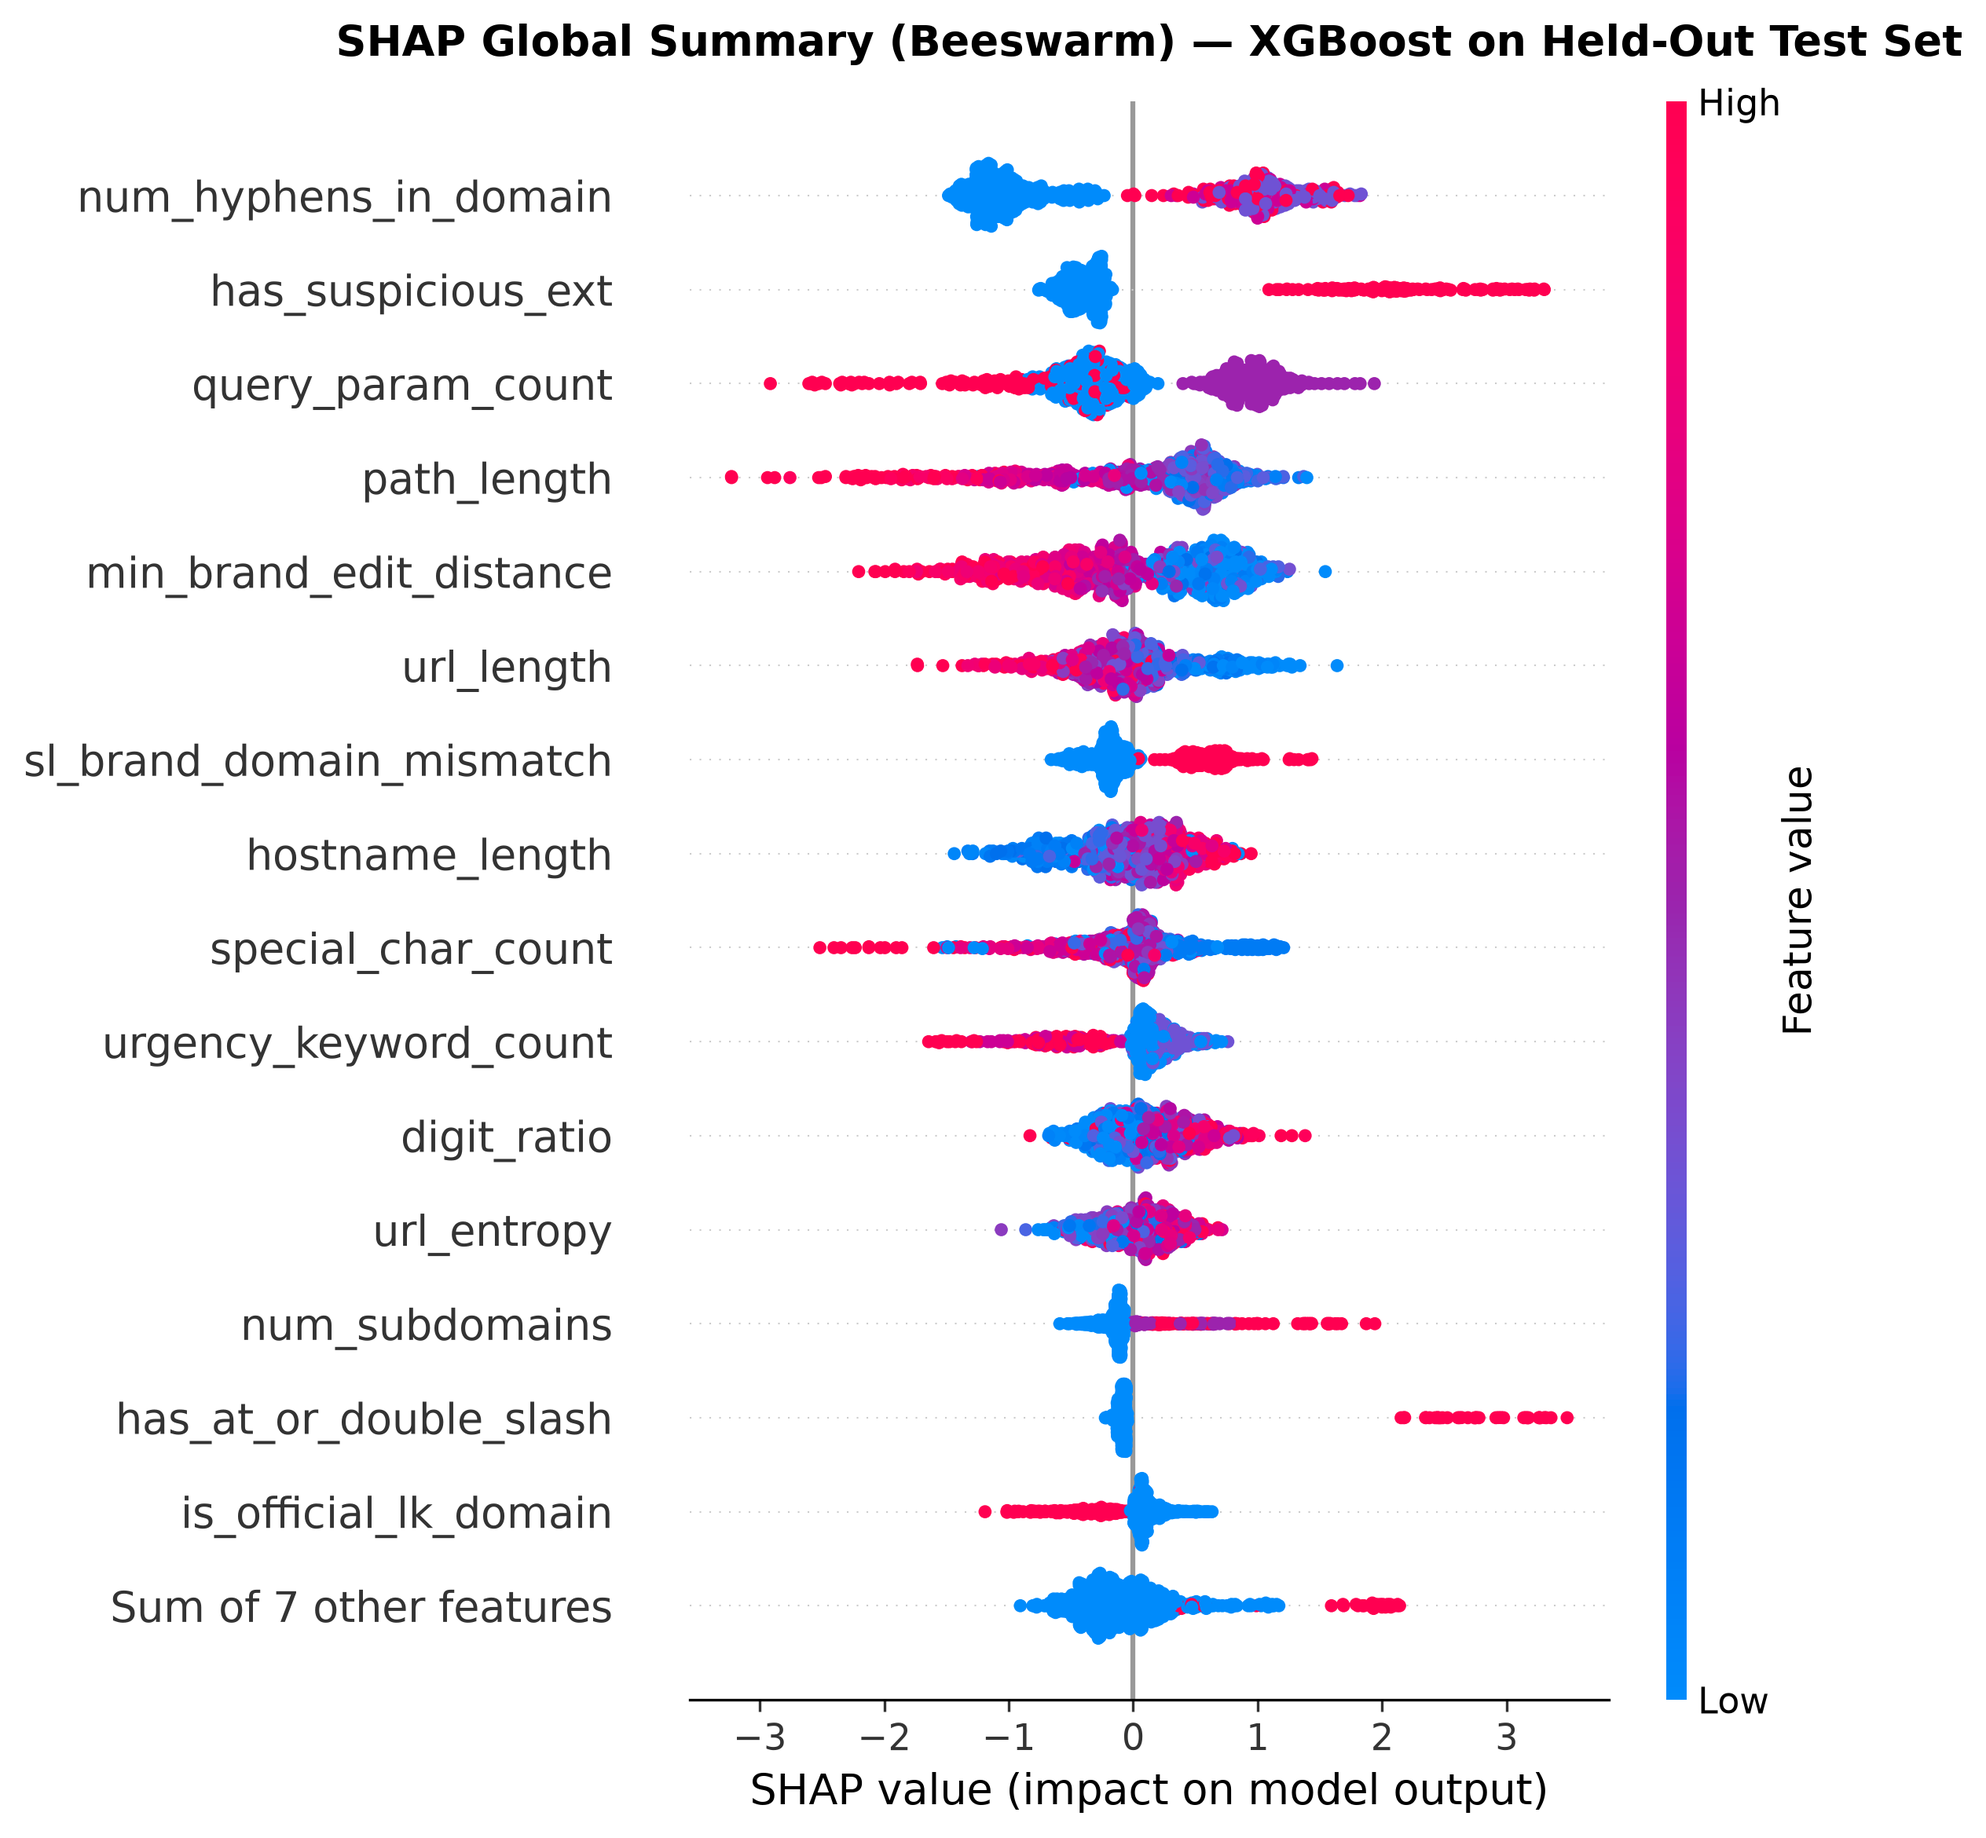
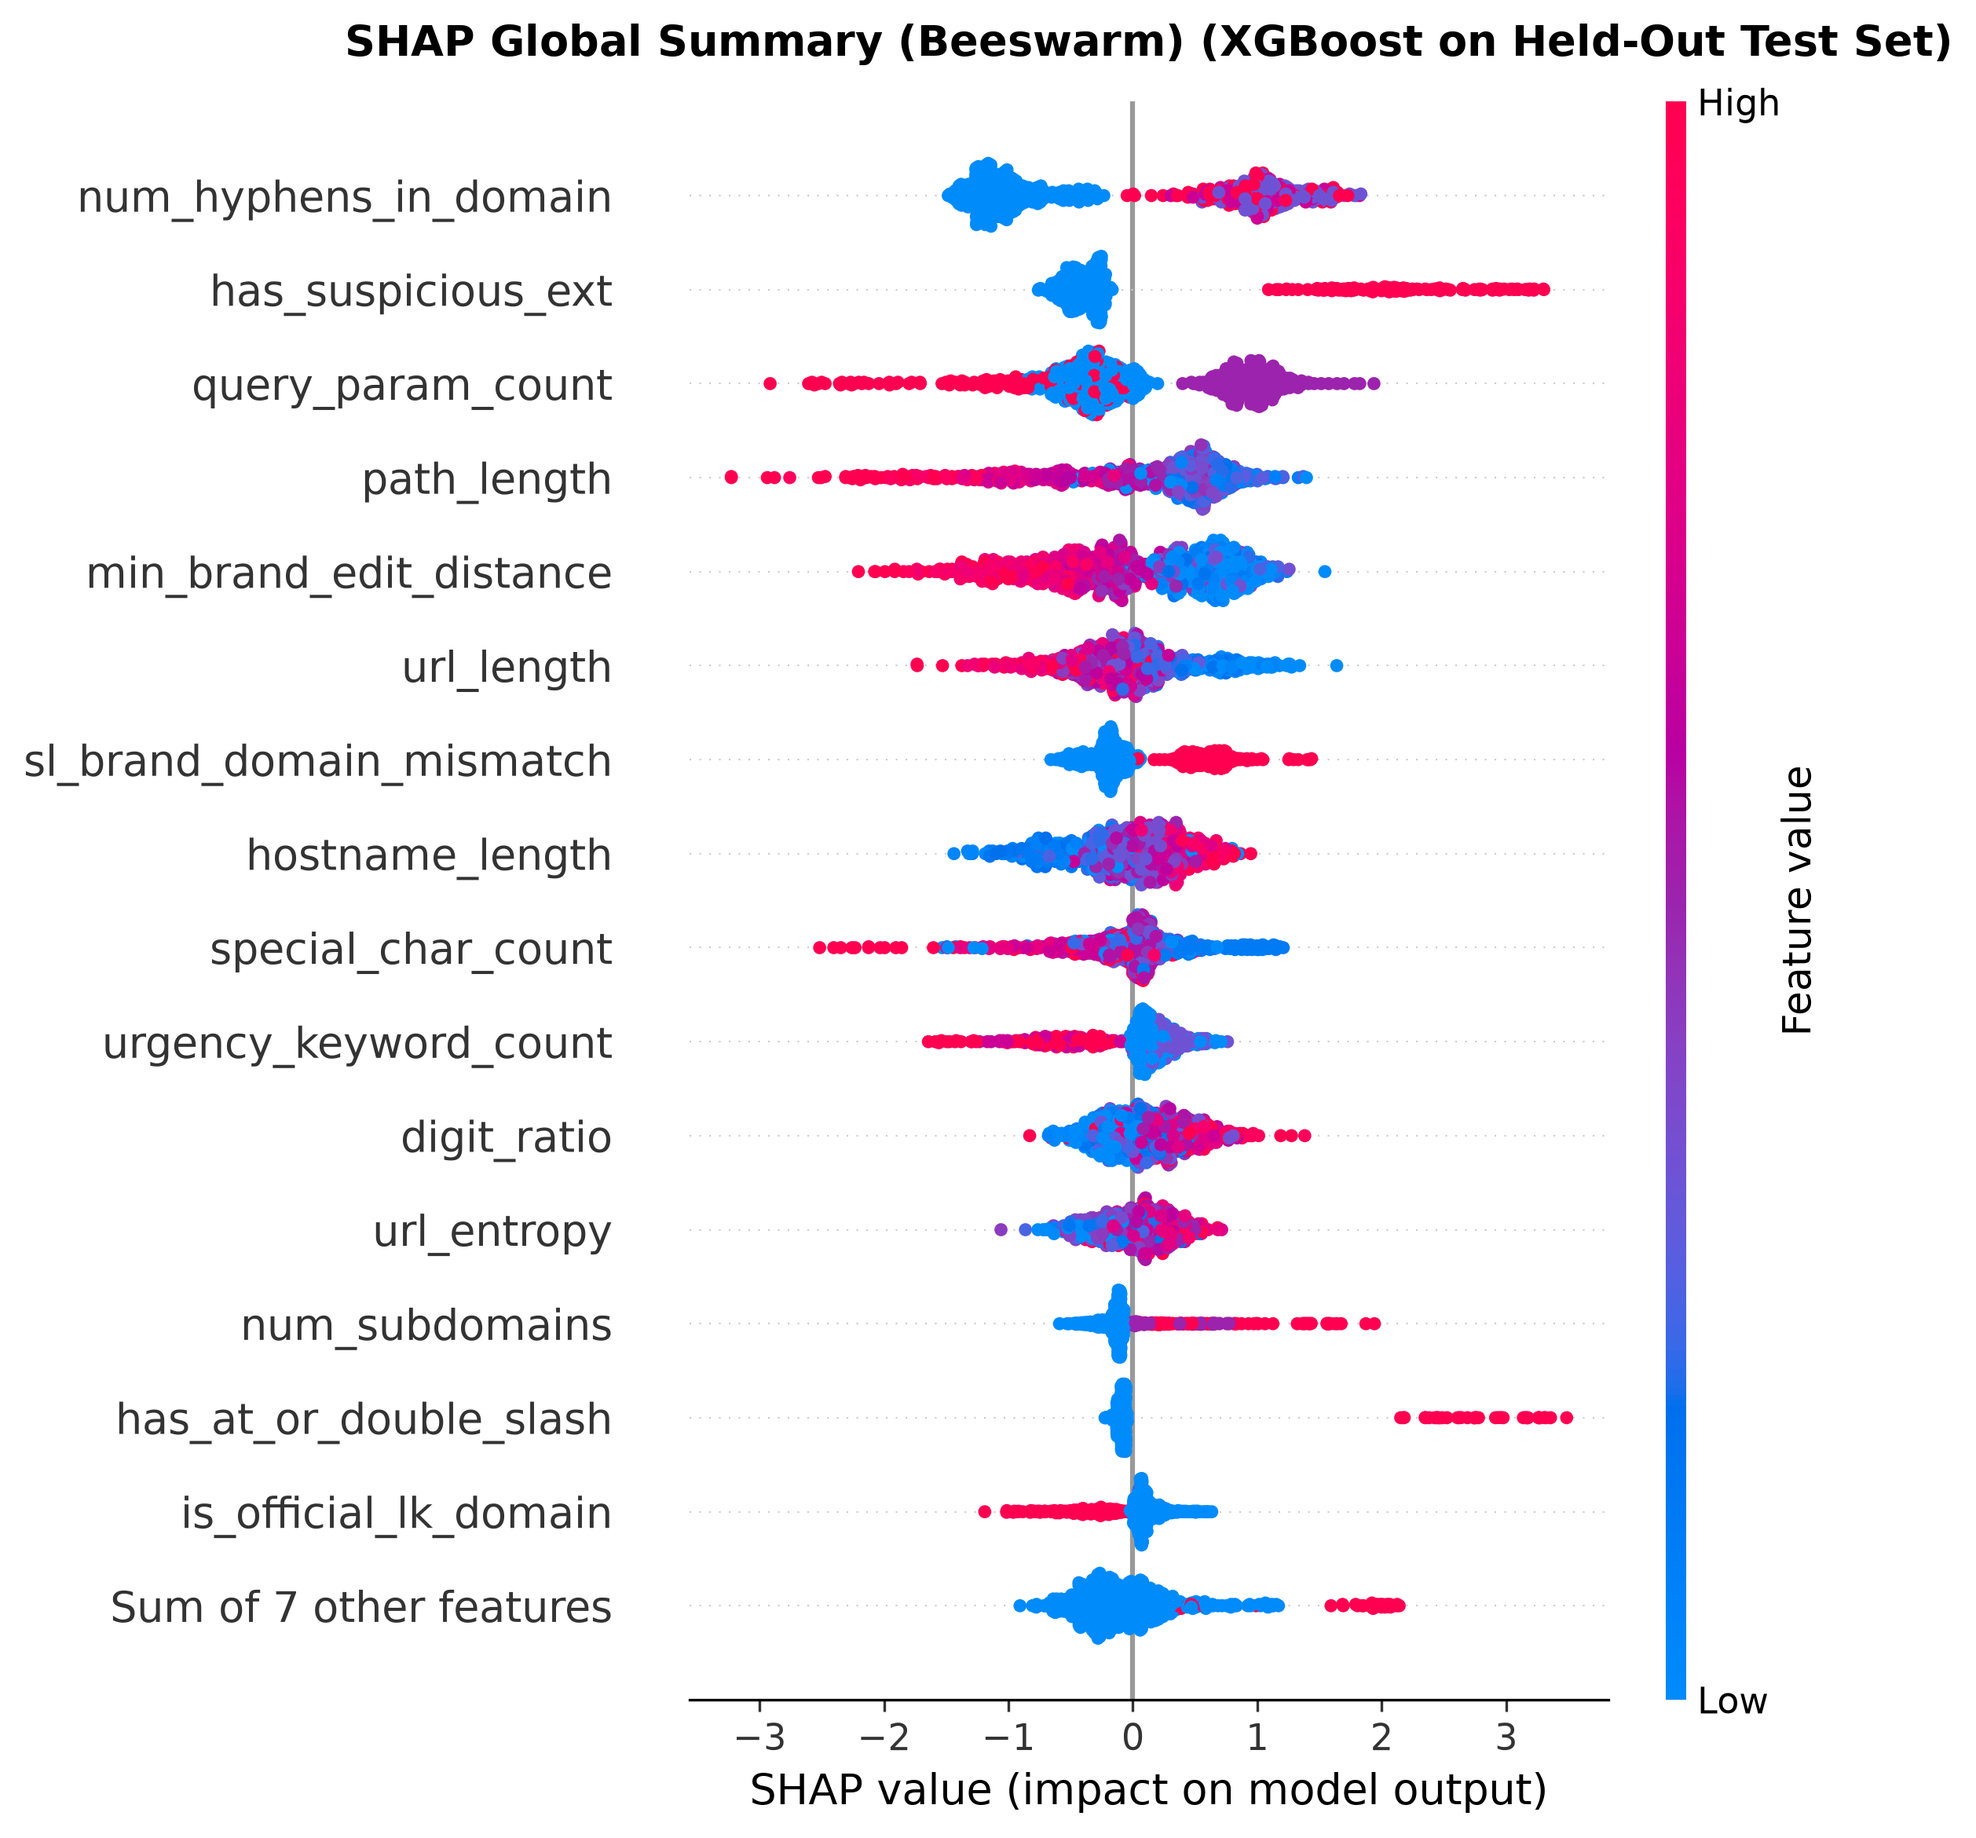
Remove long dashes from UI captions and plot titles

diff --git a/src/explainability.py b/src/explainability.py
@@ -101,7 +101,7 @@ def run_explainability_suite():
     # --- Plot 8: SHAP Summary Beeswarm Plot ---
     plt.figure(figsize=(11, 8))
     shap.plots.beeswarm(clean_shap_exp, max_display=16, show=False)
-    plt.title(f"SHAP Global Summary (Beeswarm) — {best_model_name} on Held-Out Test Set", fontsize=13, fontweight="bold", pad=14)
+    plt.title(f"SHAP Global Summary (Beeswarm) ({best_model_name} on Held-Out Test Set)", fontsize=13, fontweight="bold", pad=14)
     plt.tight_layout()
     plt.savefig(os.path.join(fig_dir, "08_shap_summary_beeswarm.png"), bbox_inches="tight")
     plt.close()
@@ -109,7 +109,7 @@ def run_explainability_suite():
     # --- Plot 9: SHAP Global Bar Importance Plot ---
     plt.figure(figsize=(10, 7.5))
     shap.plots.bar(clean_shap_exp, max_display=16, show=False)
-    plt.title(f"Global Feature Importance (Mean |SHAP Value|) — {best_model_name}", fontsize=13, fontweight="bold", pad=14)
+    plt.title(f"Global Feature Importance (Mean |SHAP Value|) ({best_model_name})", fontsize=13, fontweight="bold", pad=14)
     plt.tight_layout()
     plt.savefig(os.path.join(fig_dir, "09_shap_global_bar.png"), bbox_inches="tight")
     plt.close()
@@ -233,7 +233,7 @@ def run_explainability_suite():
         ax.axvline(0, color="black", lw=1)
         ax.set_xlabel("LIME Local Linear Surrogate Weight (+ Phishing / - Legitimate)", fontsize=10.5)
         ax.set_title(
-            f"LIME Local Explanation — {title}\nURL: {row_info['url'][:78]}... (Prob={row_info['pred_prob']:.4f})",
+            f"LIME Local Explanation ({title})\nURL: {row_info['url'][:78]}... (Prob={row_info['pred_prob']:.4f})",
             fontsize=10.5,
             fontweight="bold"
         )

diff --git a/app/streamlit_app.py b/app/streamlit_app.py
@@ -105,7 +105,7 @@ metrics_summary, xai_summary, all_models, best_model, scaler, shap_explainer, li
 # Sidebar
 with st.sidebar:
     st.markdown("## SL Phishing Detector")
-    st.caption("MSc Applied Machine Learning Project — Detecting localized Sri Lankan phishing & smishing URLs")
+    st.caption("MSc Applied Machine Learning Project: Detecting localized Sri Lankan phishing & smishing URLs")
     st.divider()
     st.markdown("### Selected Best Model")
     st.info(
